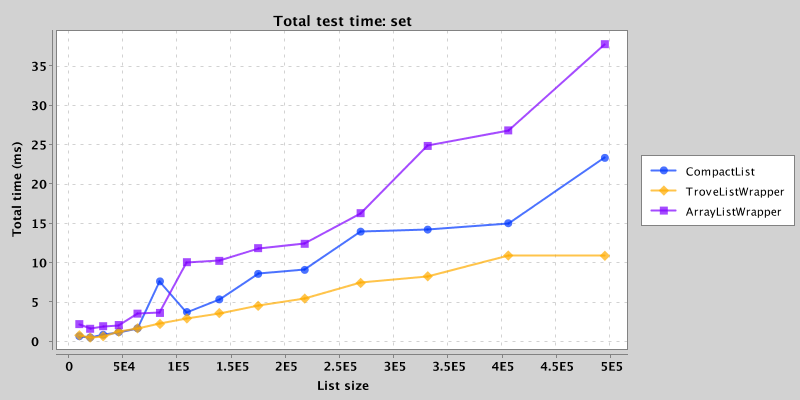
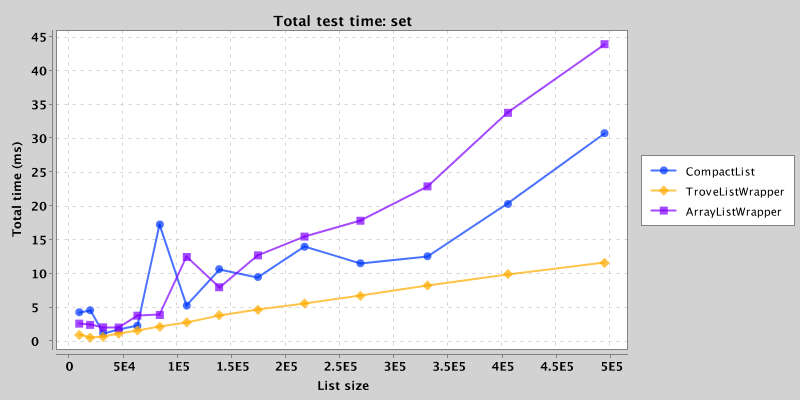
Enable compaction during read and insert

diff --git a/src/main/java/net/kothar/compactlist/internal/Node.java b/src/main/java/net/kothar/compactlist/internal/Node.java
@@ -27,12 +27,19 @@ public class Node implements Iterable<Long>, LongList, Serializable {
 
 	private static final long serialVersionUID = 3105932349913959938L;
 
-	private static final int TARGET_LEAF_SIZE = 1 << 16;
+	private static final int	READ_COMPACTION_DELAY	= 1 << 10;
+	private static final int	WRITE_COMPACTION_DELAY	= 1 << 13;
+	private static final int	TARGET_LEAF_SIZE		= 1 << 16;
 
 	protected int				size;
 	protected StorageStrategy	elements;
 	protected Node				left, right;
 	protected int				height;
+	protected boolean			dirty	= true;
+	protected long				operation,
+		lastRead,
+		lastWrite,
+		lastCompaction;
 
 	public Node() {
 		this(new LongArrayStore());
@@ -58,6 +65,10 @@ public class Node implements Iterable<Long>, LongList, Serializable {
 
 		// Leaf
 		if (isLeaf()) {
+			lastRead = ++operation;
+			if (dirty && lastRead - lastWrite > READ_COMPACTION_DELAY) {
+				compact();
+			}
 			return elements.get(index);
 		}
 
@@ -77,10 +88,12 @@ public class Node implements Iterable<Long>, LongList, Serializable {
 		// Replace with non-compact representation if out of range
 		if (isLeaf() && !elements.inRange(index, element, true)) {
 			elements = new LongArrayStore(elements, 0, size);
+			dirty = true;
 		}
 
 		// Leaf
 		if (isLeaf()) {
+			lastWrite = ++operation;
 			return elements.set(index, element);
 		} else if (index < left.size) {
 			// Left branch
@@ -111,6 +124,8 @@ public class Node implements Iterable<Long>, LongList, Serializable {
 
 		if (isLeaf()) {
 			// Leaf
+			lastWrite = ++operation;
+
 			// Replace with non-compact representation if out of range
 			if (!elements.inRange(index, element, false)) {
 				LongArrayStore newElements = new LongArrayStore(size + 1);
@@ -118,10 +133,15 @@ public class Node implements Iterable<Long>, LongList, Serializable {
 				newElements.set(index, element);
 				newElements.copy(elements, index + 1, index, size - index);
 				elements = newElements;
+				dirty = true;
 			} else {
 				elements.add(index, element);
 			}
 			size++;
+
+			if (dirty && lastWrite - lastCompaction > WRITE_COMPACTION_DELAY) {
+				compact();
+			}
 		} else {
 			addChild(index, element);
 		}
@@ -146,12 +166,14 @@ public class Node implements Iterable<Long>, LongList, Serializable {
 		// If we can't safely remove an element, decompact the store
 		if (isLeaf() && !elements.isPositionIndependent()) {
 			elements = new LongArrayStore(elements);
+			dirty = true;
 		}
 
 		// Leaf
 		size--;
 		long oldValue;
 		if (isLeaf()) {
+			lastWrite = ++operation;
 			return elements.remove(index);
 		} else if (index < left.size) {
 			// Left branch
@@ -176,9 +198,11 @@ public class Node implements Iterable<Long>, LongList, Serializable {
 			if (pivot == size) {
 				left = new Node(elements);
 				right = new Node(new LongArrayStore());
+				left.compact();
 			} else if (pivot == 0) {
 				left = new Node(new LongArrayStore());
 				right = new Node(elements);
+				right.compact();
 			} else {
 				// Right node takes a copy of data after pivot
 				right = new Node(new LongArrayStore(elements, pivot, size - pivot));
@@ -210,7 +234,8 @@ public class Node implements Iterable<Long>, LongList, Serializable {
 		left = null;
 		right = null;
 		height = 0;
-
+		dirty = true;
+		lastWrite = lastRead = operation = 0;
 	}
 
 	protected void mergeElements(LongArrayStore target, int offset) {
@@ -269,11 +294,6 @@ public class Node implements Iterable<Long>, LongList, Serializable {
 	}
 
 	public void compact() {
-		if (size == 0) {
-			// Edge case where all elements have been removed from a leaf
-			elements = new ConstantStore(new OffsetCompactionStrategy(0), 0, 0);
-			return;
-		}
 
 		if (!isLeaf()) {
 			if (size <= TARGET_LEAF_SIZE) {
@@ -286,72 +306,87 @@ public class Node implements Iterable<Long>, LongList, Serializable {
 			}
 		}
 
-		// Analyse the values in this node
-		StorageAnalysis analysis = new StorageAnalysis();
-		analysis.size = size;
-		analysis.first = elements.get(0);
-		analysis.last = elements.get(size - 1);
-
-		for (int i = 0; i < size; i++) {
-			long v = elements.get(i);
-			if (v < analysis.min) {
-				analysis.min = v;
-			}
-			if (v > analysis.max) {
-				analysis.max = v;
-			}
-		}
-
-		CompactionStrategy[] strategies = new CompactionStrategy[] {
-			new OffsetCompactionStrategy(analysis),
-			new LinearPredictionCompactionStrategy(analysis)
-		};
-		List<CompactionEvaluator> evaluators = Arrays.stream(strategies).map(CompactionEvaluator::new)
-			.collect(Collectors.toList());
-
-		// Evaluate available compaction strategies
-		for (int i = 0; i < size && !evaluators.isEmpty(); i++) {
-			long v = elements.get(i);
-			for (Iterator<CompactionEvaluator> si = evaluators.iterator(); si.hasNext();) {
-				CompactionEvaluator strategy = si.next();
-				if (!strategy.evaluate(i, v)) {
-					si.remove();
-				}
-			}
-		}
-
-		if (evaluators.isEmpty()) {
-			// We may still be able to truncate the storage
-			if (elements instanceof LongArrayStore
-				&& elements.capacity() > elements.size() + AbstractStore.ALLOCATION_BUFFER) {
-				elements = new LongArrayStore(elements);
-			}
+		if (!dirty) {
 			return;
 		}
 
-		long range = Long.MAX_VALUE;
-		CompactionStrategy strategy = null;
-		for (CompactionEvaluator evaluator : evaluators) {
-			evaluator.normalize();
-			if (strategy == null || evaluator.range() < range) {
-				strategy = evaluator.getStrategy();
-				range = evaluator.range();
+		try {
+			if (size == 0) {
+				// Edge case where all elements have been removed from a leaf
+				elements = new ConstantStore(new OffsetCompactionStrategy(0), 0, 0);
+				return;
 			}
-		}
 
-		// Choose an appropriate storage strategy for the range of compact values
-		// observed
-		// TODO do we want to allow any headroom?
-		if (range == 0) {
-			elements = new ConstantStore(strategy, elements);
-		} else if (range < 1L << 4) {
-			elements = new NibbleArrayStore(strategy, elements);
-		} else if (range < 1L << 8) {
-			elements = new ByteArrayStore(strategy, elements);
-		} else if (range < 1L << 16) {
-			elements = new ShortArrayStore(strategy, elements);
-		} else if (range < 1L << 32) {
-			elements = new IntArrayStore(strategy, elements);
+			// Analyse the values in this node
+			StorageAnalysis analysis = new StorageAnalysis();
+			analysis.size = size;
+			analysis.first = elements.get(0);
+			analysis.last = elements.get(size - 1);
+
+			for (int i = 0; i < size; i++) {
+				long v = elements.get(i);
+				if (v < analysis.min) {
+					analysis.min = v;
+				}
+				if (v > analysis.max) {
+					analysis.max = v;
+				}
+			}
+
+			CompactionStrategy[] strategies = new CompactionStrategy[] {
+				new OffsetCompactionStrategy(analysis),
+				new LinearPredictionCompactionStrategy(analysis)
+			};
+			List<CompactionEvaluator> evaluators = Arrays.stream(strategies).map(CompactionEvaluator::new)
+				.collect(Collectors.toList());
+
+			// Evaluate available compaction strategies
+			for (int i = 0; i < size && !evaluators.isEmpty(); i++) {
+				long v = elements.get(i);
+				for (Iterator<CompactionEvaluator> si = evaluators.iterator(); si.hasNext();) {
+					CompactionEvaluator strategy = si.next();
+					if (!strategy.evaluate(i, v)) {
+						si.remove();
+					}
+				}
+			}
+
+			if (evaluators.isEmpty()) {
+				// We may still be able to truncate the storage
+				if (elements instanceof LongArrayStore
+					&& elements.capacity() > elements.size() + AbstractStore.ALLOCATION_BUFFER) {
+					elements = new LongArrayStore(elements);
+				}
+				return;
+			}
+
+			long range = Long.MAX_VALUE;
+			CompactionStrategy strategy = null;
+			for (CompactionEvaluator evaluator : evaluators) {
+				evaluator.normalize();
+				if (strategy == null || evaluator.range() < range) {
+					strategy = evaluator.getStrategy();
+					range = evaluator.range();
+				}
+			}
+
+			// Choose an appropriate storage strategy for the range of compact values
+			// observed
+			// TODO do we want to allow any headroom?
+			if (range == 0) {
+				elements = new ConstantStore(strategy, elements);
+			} else if (range < 1L << 4) {
+				elements = new NibbleArrayStore(strategy, elements);
+			} else if (range < 1L << 8) {
+				elements = new ByteArrayStore(strategy, elements);
+			} else if (range < 1L << 16) {
+				elements = new ShortArrayStore(strategy, elements);
+			} else if (range < 1L << 32) {
+				elements = new IntArrayStore(strategy, elements);
+			}
+		} finally {
+			dirty = false;
+			lastCompaction = operation;
 		}
 	}
 

diff --git a/src/main/java/net/kothar/compactlist/internal/storage/CompactArrayStore.java b/src/main/java/net/kothar/compactlist/internal/storage/CompactArrayStore.java
@@ -1,6 +1,7 @@
 package net.kothar.compactlist.internal.storage;
 
 import net.kothar.compactlist.internal.compaction.CompactionStrategy;
+import net.kothar.compactlist.internal.compaction.OffsetCompactionStrategy;
 import net.kothar.compactlist.internal.compaction.PositionIndependentCompactionStrategy;
 
 public abstract class CompactArrayStore<T> extends ArrayStore<T> {
@@ -19,6 +20,19 @@ public abstract class CompactArrayStore<T> extends ArrayStore<T> {
 		this.strategy = strategy;
 	}
 
+	public CompactArrayStore(StorageStrategy elements, int offset, int size) {
+		super(size, size);
+		if (elements instanceof CompactArrayStore) {
+			strategy = ((CompactArrayStore<?>) elements).strategy;
+		} else {
+			strategy = new OffsetCompactionStrategy(0);
+		}
+		copy(elements, 0, offset, size);
+	}
+
+	protected CompactArrayStore() {
+	}
+
 	@Override
 	public boolean isPositionIndependent() {
 		return strategy instanceof PositionIndependentCompactionStrategy;
@@ -26,7 +40,7 @@ public abstract class CompactArrayStore<T> extends ArrayStore<T> {
 
 	@Override
 	public boolean inRange(int index, long value, boolean positionIndependent) {
-		if (!(positionIndependent || isPositionIndependent())) {
+		if (index < size && !(positionIndependent || isPositionIndependent())) {
 			return false;
 		}
 

diff --git a/src/main/java/net/kothar/compactlist/internal/storage/ShortArrayStore.java b/src/main/java/net/kothar/compactlist/internal/storage/ShortArrayStore.java
@@ -13,6 +13,10 @@ public class ShortArrayStore extends CompactArrayStore<short[]> {
 		copy(elements, 0);
 	}
 
+	public ShortArrayStore(StorageStrategy elements, int offset, int size) {
+		super(elements, offset, size);
+	}
+
 	@Override
 	public long get(int index) {
 		return strategy.getRealValue(index, store[index] & 0xFFFFL);

diff --git a/src/main/java/net/kothar/compactlist/internal/storage/IntArrayStore.java b/src/main/java/net/kothar/compactlist/internal/storage/IntArrayStore.java
@@ -13,6 +13,10 @@ public class IntArrayStore extends CompactArrayStore<int[]> {
 		copy(elements, 0);
 	}
 
+	public IntArrayStore(StorageStrategy elements, int offset, int size) {
+		super(elements, offset, size);
+	}
+
 	@Override
 	public long get(int index) {
 		return strategy.getRealValue(index, store[index] & 0xFFFF_FFFFL);

diff --git a/src/main/java/net/kothar/compactlist/internal/storage/ByteArrayStore.java b/src/main/java/net/kothar/compactlist/internal/storage/ByteArrayStore.java
@@ -13,6 +13,10 @@ public class ByteArrayStore extends CompactArrayStore<byte[]> {
 		copy(elements, 0);
 	}
 
+	public ByteArrayStore(StorageStrategy elements, int offset, int size) {
+		super(elements, offset, size);
+	}
+
 	@Override
 	public long get(int index) {
 		return strategy.getRealValue(index, store[index] & 0xFFL);
